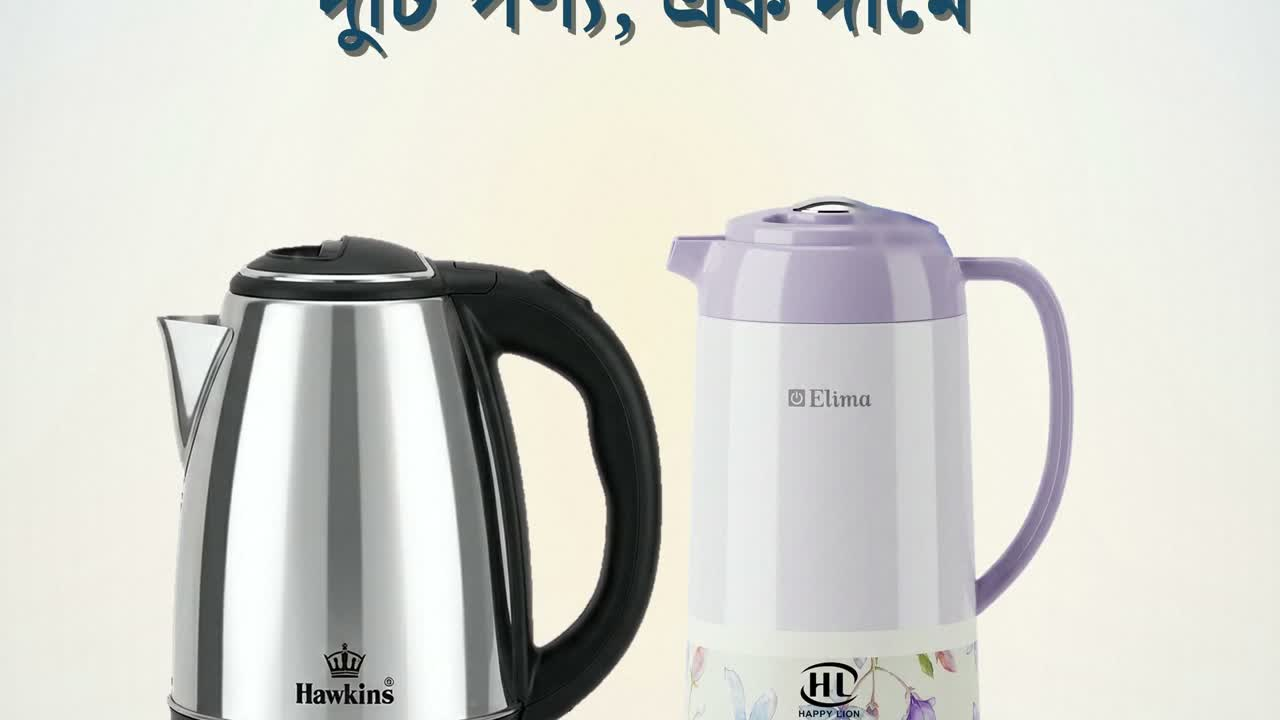
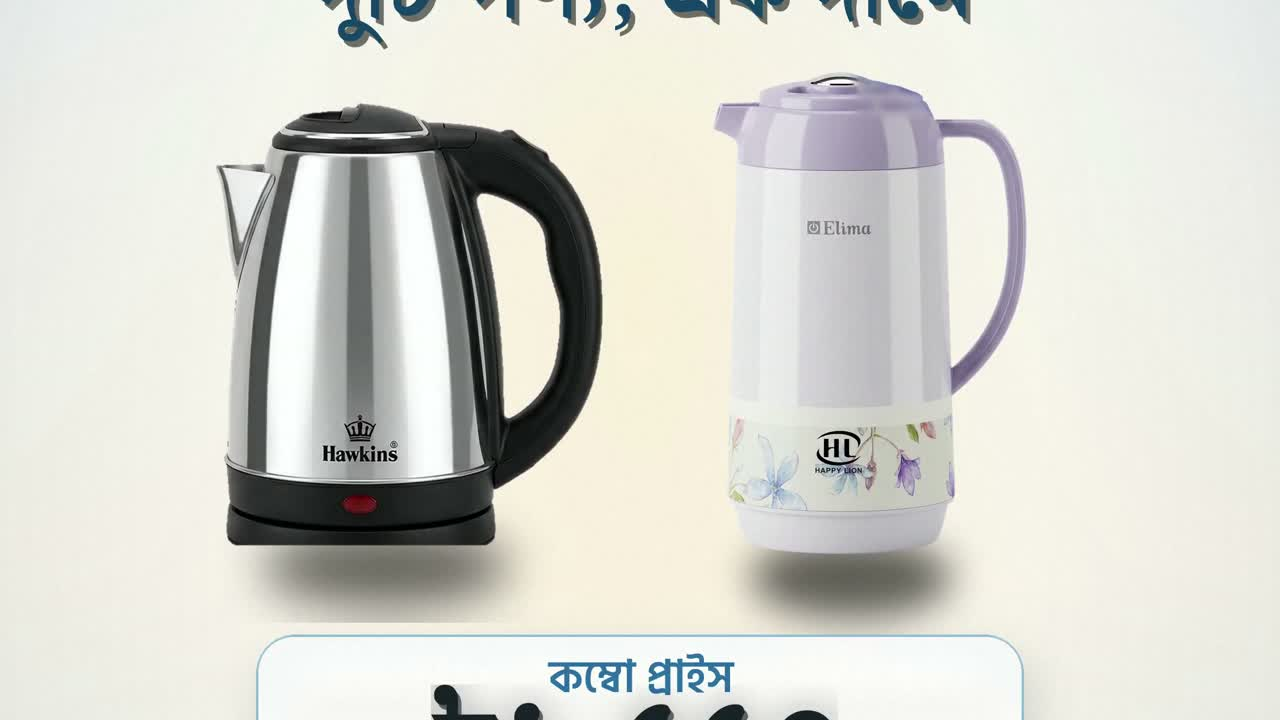
ad v11: measured type stack (no text-on-text), sprite sizes capped under headlines, dust screens instead of darkening

diff --git a/.studio/v3/build_ad3.py b/.studio/v3/build_ad3.py
@@ -305,63 +305,72 @@ def _deepen_lower(img, y=0.66):
 def draw_s1(img, s, p, t):
     """Hook: the deal AND the price in the first two seconds.
 
-    Products rise into a low two-up pose; the price lockup lands on a light
-    frosted card under them, so the number is the second thing the eye finds —
-    not the last thing in the film.
+    Layout is measured, not eyeballed. Every glyph box height below was taken
+    from rbtext.flow() at the real px size, then the gaps were set to a
+    consistent rhythm (0.024 between blocks, 0.020 for the caption). The old
+    version stacked the caption right under the price card — the card's rim
+    (0.748) and the caption's ink (0.752) were 4 px apart, which is what read
+    as text sitting on text.
     """
     e = K.ss(0.0, 0.90, t)
-    # eased, not sprung: the v8 back-ease made the products hop on entry
     rise = 0.075 * (1 - K.eio(min(1.0, t / 1.15)))
-    # no mirrored floor reflection here: the price card sits right under the
-    # products and the reflection bled through as a ghost of the flask
-    product(img, "kettle", 0.320, 0.640 + rise, h=0.255,
-            alpha=K.ss(0.0, 0.45, t), lift=-0.004 * np.sin(p * 5), reflect=0.0)
-    product(img, "flask", 0.680, 0.640 + rise, h=0.276,
-            alpha=K.ss(0.10, 0.55, t), lift=-0.004 * np.sin(p * 5 + 1), reflect=0.0)
-    steam(img, 0.320, 0.64 - 0.255 * 0.86, p, count=4, strength=0.22 * e)
 
-    chip(img, s["chip"], 0.148, K.ss(0.15, 0.65, t))
-    A.centred(img, s["head"][0], "big", 0.188, A.DEEP, K.ss(0.28, 0.92, t), dy=34)
-    A.centred(img, s["head"][1], "title", 0.256, A.DEEP2, K.ss(0.42, 1.06, t), dy=26)
+    # ---------------------------------------------------------- type stack --
+    # chip   0.148 -> 0.167   (1.93% tall)
+    # big    0.186 -> 0.237   (5.08%)
+    # title  0.250 -> 0.299   (4.87%)
+    # --- products (cap 0.336) ---
+    # card   0.500 -> 0.576
+    #   label 0.509 (1.85%) / price 0.523 (5.18%, ends 0.575)
+    # caption 0.600 -> 0.619
+    chip(img, s["chip"], 0.150, K.ss(0.15, 0.65, t))
+    A.centred(img, s["head"][0], "big", 0.188, A.DEEP, K.ss(0.28, 0.92, t), dy=32)
+    A.centred(img, s["head"][1], "title", 0.252, A.DEEP2, K.ss(0.42, 1.06, t), dy=24)
+
+    product(img, "kettle", 0.320, 0.522 + rise, h=0.195,
+            alpha=K.ss(0.0, 0.45, t), lift=-0.004 * np.sin(p * 5), reflect=0.0)
+    product(img, "flask", 0.680, 0.522 + rise, h=0.212,
+            alpha=K.ss(0.10, 0.55, t), lift=-0.004 * np.sin(p * 5 + 1), reflect=0.0)
+    steam(img, 0.320, 0.522 - 0.195 * 0.86, p, count=4, strength=0.20 * e)
 
     ep = K.ss(0.75, 1.20, t)
     if ep > 0.004:
-        soft_shadow(img, (W * 0.155, H * 0.672, W * 0.845, H * 0.748), ep, 34 * SCALE)
-        A.glass_card(img, (W * 0.155, H * 0.672, W * 0.845, H * 0.748), ep,
-                     radius=34 * SCALE, alpha=150, border_a=160, tint=(255, 255, 255),
-                     border=A.SKY)
-        A.centred(img, "কম্বো প্রাইস", "label", 0.680, (44, 112, 164),
+        soft_shadow(img, (W * 0.200, H * 0.560, W * 0.800, H * 0.640), ep, 32 * SCALE)
+        A.glass_card(img, (W * 0.200, H * 0.560, W * 0.800, H * 0.640), ep,
+                     radius=32 * SCALE, alpha=150, border_a=160,
+                     tint=(255, 255, 255), border=A.SKY)
+        A.centred(img, "কম্বো প্রাইস", "label", 0.568, (44, 112, 164),
                   K.ss(0.80, 1.16, t), maxw=0.6, shadow=0.0)
-        A.count_price(img, 1550, 0.694, K.ss(0.88, 1.50, t), colour=A.INK,
+        A.count_price(img, 1550, 0.582, K.ss(0.88, 1.50, t), colour=A.INK,
                       px=int(148 * SCALE * 0.72))
-    A.centred(img, "Hawkins ২ লিটার · Elima ১ লিটার", "list2", 0.752, A.DEEP2,
-              K.ss(1.30, 1.85, t), dy=18)
+    A.centred(img, "Hawkins ২ লিটার · Elima ১ লিটার", "list2", 0.664, A.DEEP2,
+              K.ss(1.30, 1.85, t), dy=16)
 
 
 def draw_product_scene(img, s, p, t, key, cx, h, base=0.560):
     dur = s["dur"]
     e_in = K.ss(0.0, 0.55, t)
     lift = -0.006 * np.sin(p * 4.2)
-    product(img, key, cx, base, h=h * 0.94, alpha=e_in, lift=lift)
+    product(img, key, cx, 0.516, h=h * 0.72, alpha=e_in, lift=lift)
     steam(img, cx + 0.105, base - h * 0.86, p, count=5,
           strength=(0.55 if key == "kettle" else 0.35) * e_in)
-    chip(img, s["chip"], 0.140, K.ss(0.25, 0.90, t))
-    A.centred(img, s["head"][0], "title", 0.182, A.DEEP, K.ss(0.22, 0.92, t), dy=30)
-    A.centred(img, s["head"][1], "sub", 0.238, A.DEEP2, K.ss(0.38, 1.06, t), dy=22)
+    chip(img, s["chip"], 0.134, K.ss(0.25, 0.90, t))
+    A.centred(img, s["head"][0], "title", 0.172, A.DEEP, K.ss(0.22, 0.92, t), dy=30)
+    A.centred(img, s["head"][1], "sub", 0.230, A.DEEP2, K.ss(0.38, 1.06, t), dy=22)
 
     # ONE light glass card holds all three features. It starts BELOW the
     # product's contact point (base 0.560) so it never covers the base, and it
     # is a frost, not a slab — the floor still reads through it.
     ec = K.ss(1.05, 1.45, t)
     if ec > 0.004:
-        soft_shadow(img, (W * 0.082, H * 0.560, W * 0.918, H * 0.742), ec, 32 * SCALE)
-        A.glass_card(img, (W * 0.082, H * 0.560, W * 0.918, H * 0.742), ec,
+        soft_shadow(img, (W * 0.082, H * 0.560, W * 0.918, H * 0.770), ec, 32 * SCALE)
+        A.glass_card(img, (W * 0.082, H * 0.560, W * 0.918, H * 0.770), ec,
                      radius=32 * SCALE, alpha=118, border_a=170, tint=(255, 255, 255),
                      border=A.SKY)
     # rows pulled up and tightened: the third row used to sit 8 px below the
     # card's bottom edge and read as cut off
-    feature_cards(img, s["cards"], 0.588, K.ss(1.10, 1.45, t), at=1.10, t=t,
-                  gap=0.050)
+    feature_cards(img, s["cards"], 0.586, K.ss(1.10, 1.45, t), at=1.10, t=t,
+                  gap=0.049)
 
 
 def draw_s4(img, s, p, t):
@@ -371,18 +380,18 @@ def draw_s4(img, s, p, t):
     e2 = K.ss(0.16, 0.96, p * dur)
     dx1 = 0.15 * (1 - K.eio(min(1.0, p * 1.9)))
     dx2 = -0.15 * (1 - K.eio(min(1.0, p * 1.9)))
-    product(img, "kettle", 0.335 + dx1, 0.730, h=0.300, alpha=e1)
-    product(img, "flask", 0.665 + dx2, 0.730, h=0.325, alpha=e2)
+    product(img, "kettle", 0.335 + dx1, 0.700, h=0.270, alpha=e1)
+    product(img, "flask", 0.665 + dx2, 0.700, h=0.292, alpha=e2)
     img_ = A.light_sweep(img, K.ss(0.30, 0.95, p), y0=0.18, y1=0.80,
                          width=0.16, strength=0.20)
     img.paste(img_, (0, 0))
     chip(img, s["chip"], 0.150, K.ss(0.18, 0.70, p * dur))
-    A.centred(img, "HAWKINS KETTLE", "list", 0.198, A.DEEP, K.ss(0.35, 0.92, p * dur),
+    A.centred(img, "HAWKINS KETTLE", "list", 0.200, A.DEEP, K.ss(0.35, 0.92, p * dur),
               maxw=0.86)
-    A.centred(img, "ELIMA FLASK", "list", 0.244, A.DEEP, K.ss(0.55, 1.12, p * dur),
+    A.centred(img, "ELIMA FLASK", "list", 0.252, A.DEEP, K.ss(0.55, 1.12, p * dur),
               maxw=0.86)
-    A.centred(img, "দুটোই একসঙ্গে, এক কম্বো অফারে", "sub", 0.722, A.DEEP2,
-              K.ss(0.85, 1.45, p * dur), dy=18)
+    A.centred(img, "দুটোই একসঙ্গে, এক কম্বো অফারে", "sub", 0.760, A.DEEP2,
+              K.ss(0.85, 1.45, p * dur), dy=16)
 
 
 def draw_s5(img, s, p, t):
@@ -458,8 +467,8 @@ def draw_s6(img, s, p, t):
     img.paste(img2, (0, 0))
 
     chip(img, s["chip"], 0.142, K.ss(0.12, 0.60, p * dur))
-    A.centred(img, s["head"][0], "big", 0.182, A.DEEP, K.ss(0.25, 0.85, p * dur))
-    A.centred(img, "Hawkins কেটল + Elima ফ্লাস্ক", "sub", 0.252, A.DEEP2,
+    A.centred(img, s["head"][0], "big", 0.180, A.DEEP, K.ss(0.25, 0.85, p * dur))
+    A.centred(img, "Hawkins কেটল + Elima ফ্লাস্ক", "sub", 0.246, A.DEEP2,
               K.ss(0.45, 1.00, p * dur))
 
     ep = K.ss(0.55, 1.30, p * dur)
@@ -511,10 +520,10 @@ def macro_cut(s, img, t):
     lab = "স্টেইনলেস স্টিল বডি" if s["id"] == "s2" else "প্রিমিয়াম লিড ও বডি"
     le = K.ss(0.12, 0.42, local) * (1 - K.ss(1.30, 1.55, local))
     if le > 0.004:
-        A.glass_card(macro, (W * 0.13, H * 0.700, W * 0.87, H * 0.762), le,
-                     radius=30 * SCALE, alpha=235, border_a=200,
+        A.glass_card(macro, (W * 0.13, H * 0.646, W * 0.87, H * 0.704), le,
+                     radius=30 * SCALE, alpha=238, border_a=200,
                      tint=(255, 252, 245), border=A.SKY)
-        A.centred(macro, lab, "list", 0.716, A.DEEP, le, shadow=0.0)
+        A.centred(macro, lab, "list", 0.660, A.DEEP, le, shadow=0.0)
     # full cut, not a ghost: even 6% of the outgoing frame showed the titles
     # through the macro plate and read as a double exposure
     return macro if e >= 0.995 else Image.blend(img, macro, float(min(1.0, e)))

diff --git a/.studio/v3/adkit.py b/.studio/v3/adkit.py
@@ -189,8 +189,14 @@ def dust(img, p, count=40, strength=0.5, seed=7):
         a = int(255 * rng.uniform(0.35, 0.9) * strength)
         d.ellipse([x * W - r * W, y * H - r * W, x * W + r * W, y * H + r * W], fill=a)
     lay = lay.filter(ImageFilter.GaussianBlur(1.2 * SCALE))
-    img.paste(Image.new("RGB", img.size, (255, 246, 220)), (0, 0), lay)
-    return img
+    # ON A BRIGHT STAGE A PASTE DARKENS: pasting a warm cream over a near-white
+    # floor left visible darker specks that read as dirt (or worse, as dust on
+    # the lens). Screen-blend instead, so motes only ever add light.
+    colr = np.array((255, 246, 220), np.float32)
+    base = np.asarray(img, np.float32)
+    a = (np.asarray(lay, np.float32) / 255.0)[..., None]
+    out = base + (colr - base) * a
+    return Image.fromarray(np.clip(out, 0, 255).astype(np.uint8), "RGB")
 
 
 _VIG = {}

diff --git a/.studio/deliver23_ad/08-notes.md b/.studio/deliver23_ad/08-notes.md
@@ -27,6 +27,30 @@
 সঙ্গে ফিচার কার্ডের তৃতীয় লাইন কার্ডের নিচে ৮px বেরিয়ে যাচ্ছিল — কার্ড ও রো দুটোই উপরে
 টেনে মাপ মিলিয়ে দেওয়া হয়েছে।
 
+
+## v11 — টেক্সট লেআউট (এই রাউন্ড)
+
+### সমস্যা
+১. **দামের কার্ডের ঠিক নিচে ক্যাপশন** — কার্ডের রিম `0.748`, ক্যাপশনের ইনক `0.752`:
+   মাত্র ৪ pixels ফাঁক (4K-এ), তাই লেখা লেখার গায়ে লেগে ছিল।
+২. **হুকের শেষ দুটো লাইন `0.852`/`0.902`** — নিচের safe zone-এর বাইরে।
+৩. **ফ্লাস্ক/কেটল দৃশ্যে পণ্যের কাঁধ সাব-হেডলাইনের ভিতরে** ঢুকে যাচ্ছিল।
+৪. **ধুলার কণা** উষ্ণ ক্রিম পেস্ট করা হচ্ছিল সাদা ফ্লোরে — সাদার উপর ক্রিম = গাঢ় দাগ,
+   সেগুলোই "নোংরা/lens dust" দেখাচ্ছিল।
+
+### সমাধান
+- এখন প্রতিটি লেখার উচ্চতা `rbtext.flow()` দিয়ে **মেপে** বসানো, ফাঁক সব জায়গায় একই ছন্দে:
+  ব্লকের মাঝে `0.024`, ক্যাপশনে `0.020`।
+- **s1:** chip `0.150` → big `0.188` → title `0.252` → পণ্য `0.333–0.522` →
+  কার্ড `0.560–0.640` → ক্যাপশন `0.664` (নিচের সীমানা `0.790`)।
+- **s2/s3:** পণ্য `0.516`-এ, উচ্চতা `0.72×` (কাঁধ হেডলাইনের নিচে), কার্ড `0.560–0.770`।
+- **s4:** পণ্য `0.700`, লাইন `0.760`। **s6:** পণ্য-কার্ড-CTA তিনটেই আলাদা ব্লক।
+- **ধুলা** এখন *screen* ব্লেন্ড — কণা শুধু আলো যোগ করে, কখনো দাগ ফেলে না।
+- **ম্যাক্রো লেবেল** `0.660`-এ (আগে `0.716`), লোগোর লেখার ওপর পড়ে না।
+
+### যা এখনো সীমা
+- ইমোশনাল দৃশ্যের ফটোটা AI-জেনারেট করা স্থির ছবি — আসল শুট করা ক্লিপ হলে আরও বিশ্বাসযোগ্য হবে।
+
 ---
 
 # v9 (আগের রাউন্ড — রেফারেন্স)

diff --git a/.studio/deliver23_ad/README.md b/.studio/deliver23_ad/README.md
@@ -1,8 +1,8 @@
-# কম্বো অ্যাড — v10 (সেফ-এরিয়া + ভয়েস ঠিক করা) (Hawkins ২ লিটার কেটল + Elima ১ লিটার ফ্লাস্ক)
+# কম্বো অ্যাড — v11 (লেখার লেআউট ঠিক করা) (Hawkins ২ লিটার কেটল + Elima ১ লিটার ফ্লাস্ক)
 
 | ফাইল | কী | স্পেক |
 |------|-----|-------|
-| `00-combo-ad-4k.mp4` | **মূল ভিডিও** | 2160×3840, 30 fps, 39.8 s, 24.3 MB, H.264 High + AAC mono |
+| `00-combo-ad-4k.mp4` | **মূল ভিডিও** | 2160×3840, 30 fps, 39.8 s, 23.9 MB, H.264 High + AAC mono |
 | `01-combo-ad-1080x1920.mp4` | ফেসবুক/রিল আপলোড | 1080×1920, 39.8 s, 4.0 MB |
 | `02-combo-ad-15s.mp4` | শর্ট কাট | 2160×3840, 14.8 s, 10.9 MB |
 | `03-script-combo.md` | শট-বাই-শট স্ক্রিপ্ট + VO টেক্সট | — |
